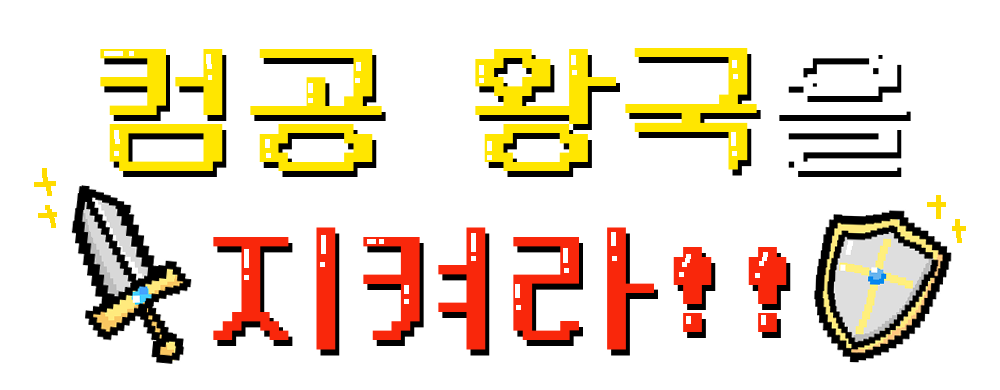
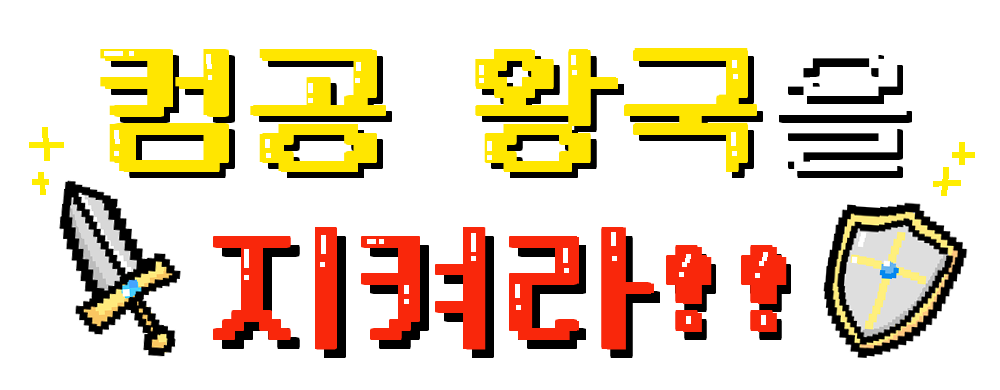
메인 화면 완성
how to play 이미지 파일 빼고 메인화면 완성 했습니다.

diff --git a/src/main.html b/src/main.html
@@ -12,6 +12,9 @@
       <div id="title">
         <img src="img/mainImg/title.png" alt="Title" />
       </div>
+      <div id="left_character">
+        <img src="img/mainImg/boy.png" alt="Left Character" />
+      </div>
       <div class="menu" id="start_btn">
         <img src="img/mainImg/start_1.png" alt="start" />
       </div>
@@ -21,31 +24,49 @@
       <div class="menu" id="how_to_play_btn">
         <img src="img/mainImg/htp_1.png" alt="howToPlay" />
       </div>
+      <div id="right_character">
+        <img src="img/mainImg/mob.png" alt="Right Character" />
+      </div>
+    </div>
+
+    <div id="setting_screen" style="display: none;">
+      <div class="menu" id="setting_title">
+        <img src="img/mainImg/settings_t.png" alt="STitle" />
+      </div>
+      <div>
+        <input type="checkbox" id="bgm_checkbox" checked/>
+        <label for="bgm_checkbox">
+          <img id="bgm_checkbox_img" src="img/mainImg/bgm_checked.png" alt="BGM" />
+        </label>
+      </div>
+      <div>
+        <input type="checkbox" id="infL_checkbox" />
+        <label for="infL_checkbox">
+          <img id="infinite_checkbox_img" src="img/mainImg/infL_unchecked.png" alt="Infinite Life Mode" />
+        </label>
+      </div>
+      <div class="menu">
+        <img id="settings_ok" src="img/mainImg/ok_button.png" alt="SOK" />
+        <img id="settings_back" src="img/mainImg/back_button.png" alt="SBack" />
+      </div>
+    </div>
+
+    <div id="how_to_play_screen" style="display: none;">
+      <div class="menu" id="htp_title">
+        <img src="img/mainImg/htp_t.png" alt="HTPTitle" />
+      </div>
+      <img src="img/mainImg/how_to.jpg" alt="How to Play" />
+      <div class="menu" id="htp_back">
+        <img src="img/mainImg/back_button.png" alt="HTPBack" />
+      </div>
     </div>
 
     <audio id="hover_sound">
       <source src="sound/mainSound/hover_sound.mp3" type="audio/mpeg">
     </audio>
-
-    <div id="setting_screen" style="display: none;">
-      <h1>Settings</h1>
-      <div>
-        <input type="checkbox" id="bgm_checkbox" />
-        <label for="bgm_checkbox">BGM</label>
-      </div>
-      <div>
-        <input type="checkbox" id="bgm_checkbox" />
-        <label for="infinite_checkbox">Infinite Life Mode</label>
-      </div>
-      <button id="setting_confirm_btn">Confirm</button>
-      <button id="setting_back_btn">Back</button>
-    </div>
-
-    <div id="how_to_play_screen" style="display: none;">
-      <h1>How to Play</h1>
-      <img src="img/mainImg/how_to.jpg" alt="How to Play" />
-      <button id="how_to_play_back_btn">Back</button>
-    </div>
-
+    <audio id="click_sound">
+      <source src="sound/mainSound/click_sound.mp3" type="audio/mpeg">
+    </audio>
+    
   </body>
 </html>

diff --git a/src/js/main.js b/src/js/main.js
@@ -1,5 +1,23 @@
 $(document).ready(function() {
 
+	document.body.style.backgroundImage = "url('img/mainImg/background2.png')";
+	document.body.style.backgroundSize = "cover";
+	document.body.style.backgroundRepeat = "no-repeat";
+
+	var position = 0;
+	var speed = 1; // 이동 속도 조정
+	var windowWidth = window.innerWidth; // 창의 가로 크기
+
+	function moveBackground() {
+		position -= speed;
+		if (position <= -windowWidth) {
+			position = 0;
+		}
+		document.body.style.backgroundPosition = position + "px 0";
+	}
+
+	setInterval(moveBackground, 20);
+
 	$("#start_btn img").hover(
 		function() {
 			$("#start_btn img").attr("src", "img/mainImg/start_2.png");
@@ -31,39 +49,74 @@ $(document).ready(function() {
         audio.play();
       }
 
+	// click시 효과음
+	function playClickSound() {
+        var audio = document.getElementById("click_sound");
+        audio.currentTime = 0;
+        audio.play();
+      }
+
 	// Start 버튼 클릭
 	$("#start_btn").click(function() {
+		playClickSound();
 		window.location.href = "phase1.html";
 	});
 
 	// Setting 버튼 클릭
 	$("#settings_btn").click(function() {
+		playClickSound();
 		$("#main").hide();
 		$("#setting_screen").show();
 	});
 
 	// How to play 버튼 클릭
 	$("#how_to_play_btn").click(function() {
+		playClickSound();
 		$("#main").hide();
 		$("#how_to_play_screen").show();
 	});
 
 	// 설정창에서 Confirm 버튼 클릭
-	$("#setting_confirm_btn").click(function() {
+	$("#settings_ok").click(function() {
+		playClickSound();
 		$("#setting_screen").hide();
 		$("#main").show();
 	});
 
 	// 설정창 화면에서 Back 버튼 클릭
-	$("#setting_back_btn").click(function() {
+	$("#settings_back").click(function() {
+		playClickSound();
 		$("#setting_screen").hide();
 		$("#main").show();
 	});
 
 	// How to play 화면에서 Back 버튼 클릭
-	$("#how_to_play_back_btn").click(function() {
+	$("#htp_back").click(function() {
+		playClickSound();
 		$("#how_to_play_screen").hide();
 		$("#main").show();
 	});
+
+	// BGM 체크 박스
+	$("#bgm_checkbox").change(function () {
+		if ($(this).prop("checked")) {
+			$("#bgm_checkbox_img").attr("src", "img/mainImg/bgm_checked.png");
+		} else {
+			$("#bgm_checkbox_img").attr("src", "img/mainImg/bgm_unchecked.png");
+		}
+	});
+  
+	// Infinite Life Mode 체크 박스
+	$("#infL_checkbox").change(function () {
+		if ($(this).prop("checked")) {
+			$("#infinite_checkbox_img").attr("src", "img/mainImg/infL_checked.png");
+		} else {
+			$("#infinite_checkbox_img").attr("src", "img/mainImg/infL_unchecked.png");
+		}
+	});
+
+	$('#left_character').css({ left: '-100%' }).animate({ left: '50' }, 1000);
+
+	$('#right_character').css({ right: '-100%' }).animate({ right: '50' }, 1000);
 	  
 });

diff --git a/src/css/main.css b/src/css/main.css
@@ -10,7 +10,33 @@
 	margin: 10px 0;
   }
 
+  #settings_back:hover, #settings_ok:hover, #htp_back:hover {
+	opacity: 0.8;
+  }
+
   #setting_screen,
   #how_to_play_screen {
+	display: flex;
+	flex-direction: column;
+	align-items: center;
+	justify-content: center;
+	height: 100vh;
+  }
+
+  #bgm_checkbox, #infL_checkbox {
 	display: none;
+  }
+
+  #left_character {
+	position: absolute;
+	left: 50px; /* 왼쪽 캐릭터 이미지의 왼쪽 여백 */
+	top: 68%; /* 화면 세로 중앙에 위치 */
+	transform: translateY(-50%); /* 세로 중앙 정렬 */
+  }
+
+  #right_character {
+	position: absolute;
+	right: 50px; /* 오른쪽 캐릭터 이미지의 오른쪽 여백 */
+	top: 68%; /* 화면 세로 중앙에 위치 */
+	transform: translateY(-50%); /* 세로 중앙 정렬 */
   }
